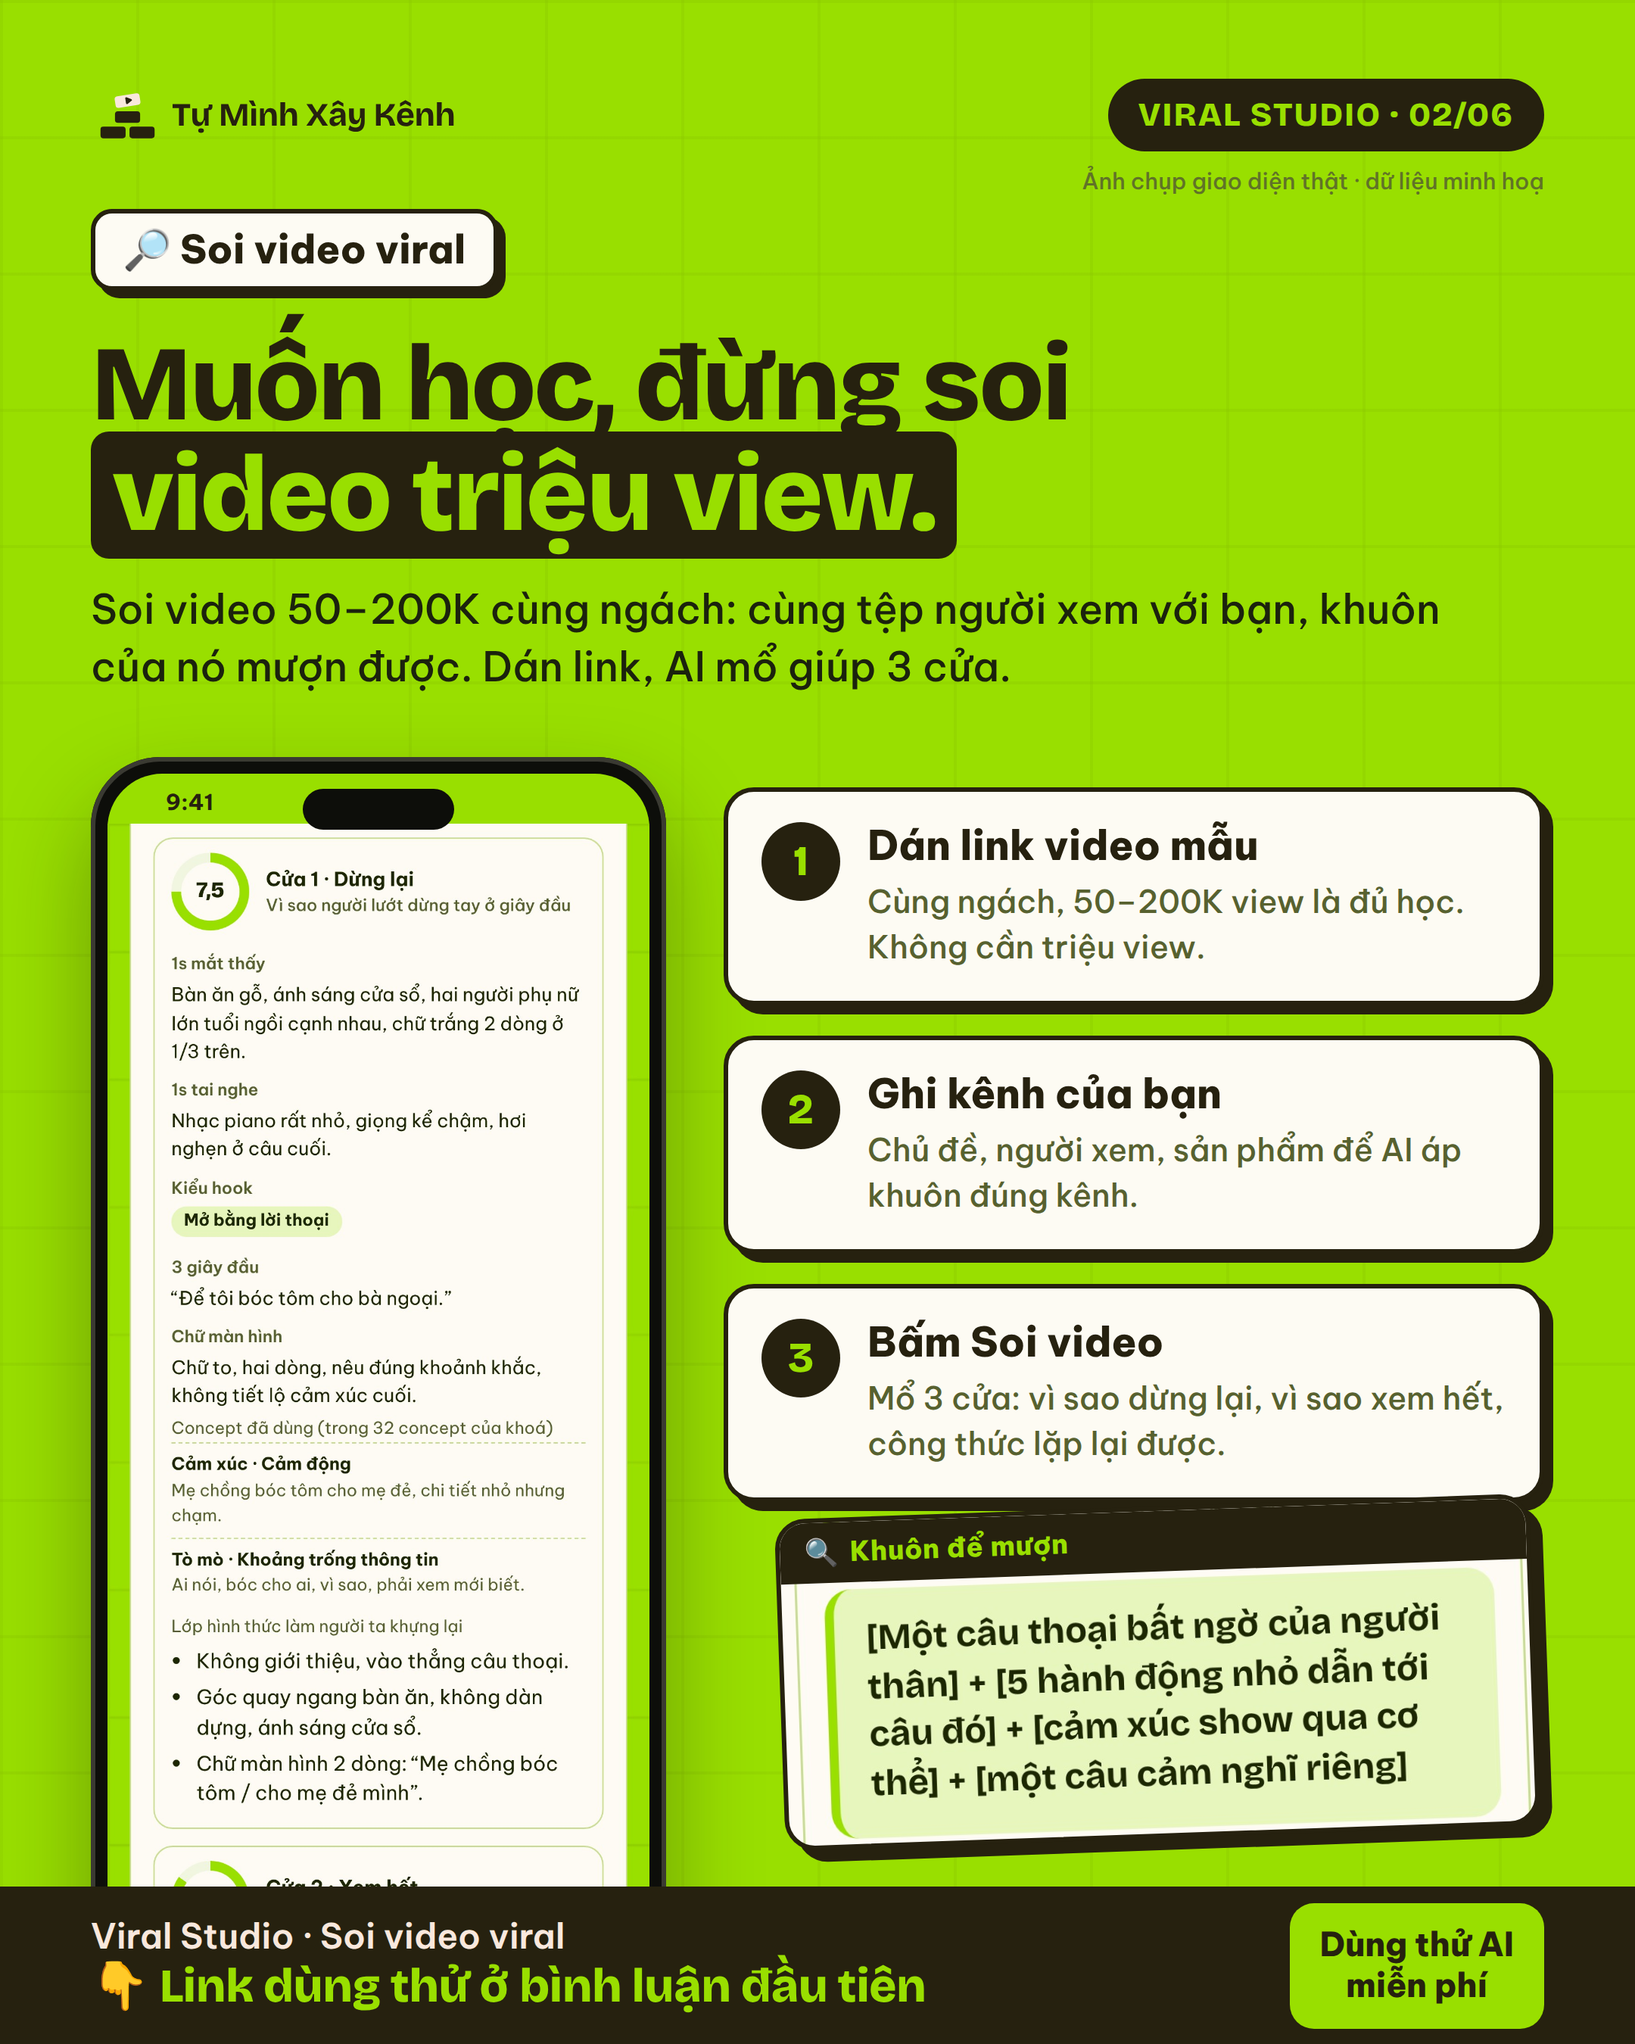
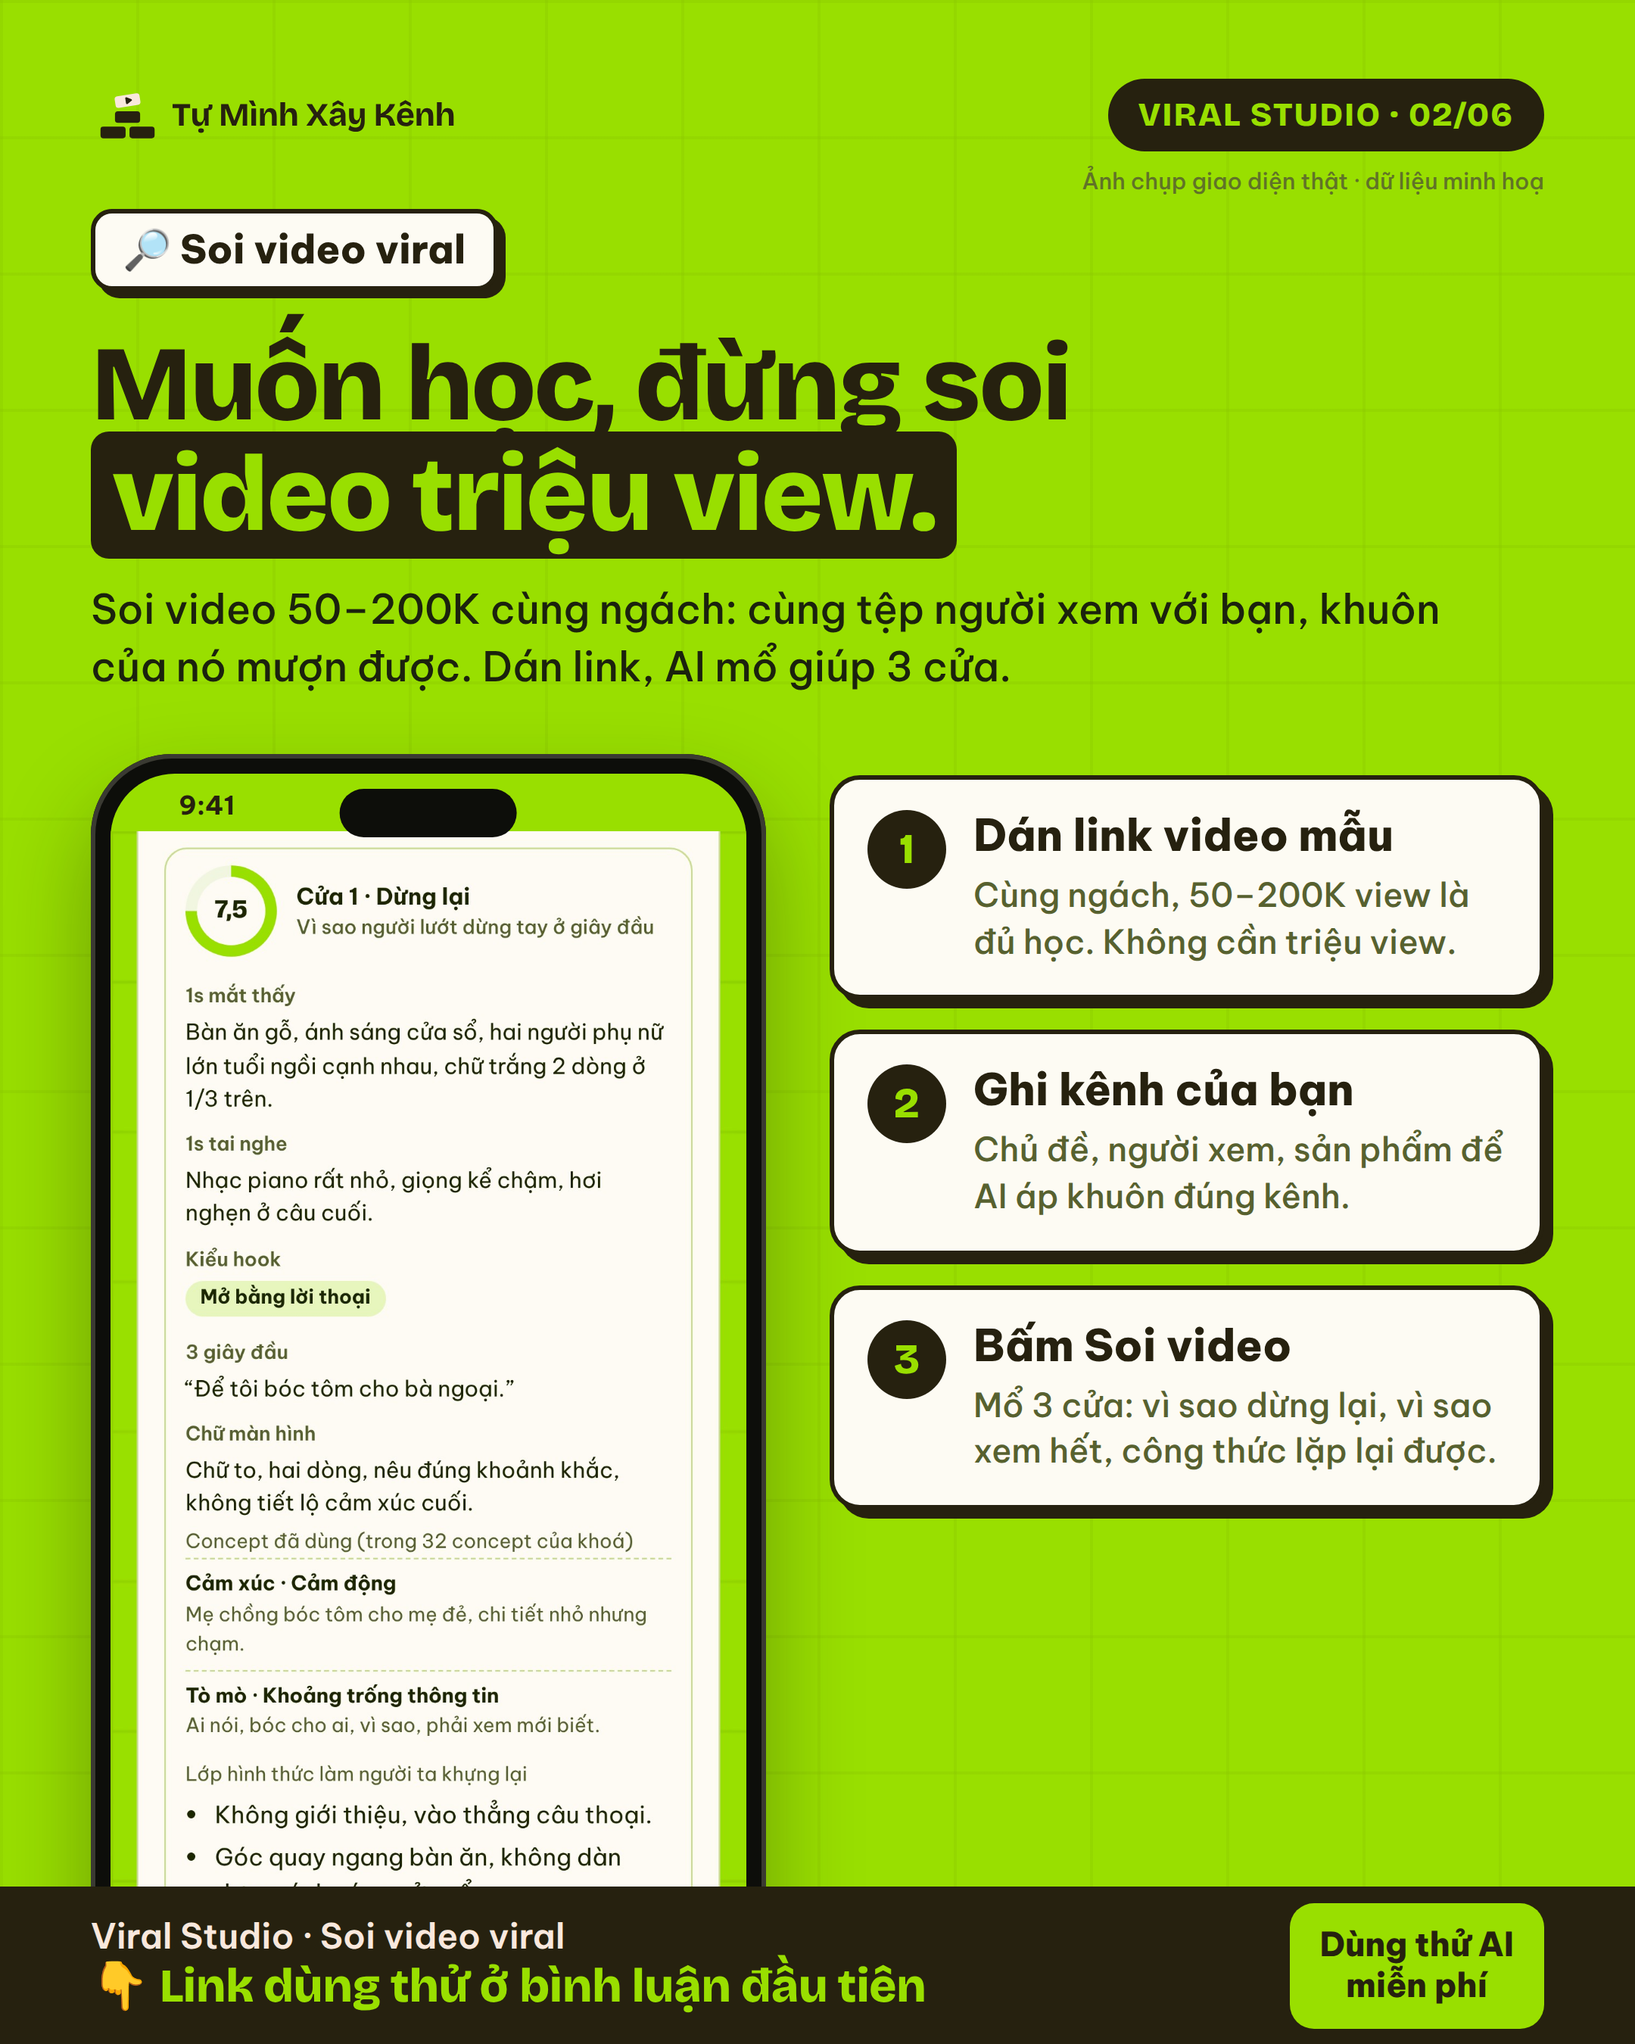
Poster Facebook: thiết kế lại bộ 7 bài, tổng quan dùng chữ to thay ảnh nhỏ, màn hình tool phóng lớn
Tổng quan bỏ 6 screenshot nhỏ khó đọc, thay bằng 6 ô số to đọc được khi lướt feed.
Poster từng tool: màn hình 380 lên 446px, bỏ mảnh phóng to gây rối, chữ các bước to hơn.

Claude-Session: https://claude.ai/code/session_01DLoQkHnYKA1ATrTvxbMQPm

Changed region(s): [[0.062, 0.3422, 0.9616, 0.9333]]

diff --git a/poster-fb/poster.html b/poster-fb/poster.html
@@ -61,8 +61,8 @@
   .buoc{position:absolute;list-style:none;display:flex;flex-direction:column;gap:20px}
   .buoc li{display:flex;gap:18px;align-items:flex-start;background:var(--surface);border:3px solid var(--ink);border-radius:20px;padding:20px 22px;box-shadow:6px 6px 0 var(--ink)}
   .buoc b{flex:none;width:52px;height:52px;border-radius:50%;background:var(--ink);color:var(--lime);display:grid;place-items:center;font:800 28px/1 var(--font-display)}
-  .buoc strong{display:block;font:800 27px/1.2 var(--font-ui)}
-  .buoc span{display:block;font:500 21px/1.42 var(--font-ui);color:var(--muted);margin-top:6px}
+  .buoc strong{display:block;font:800 29px/1.2 var(--font-ui)}
+  .buoc span{display:block;font:500 22px/1.4 var(--font-ui);color:var(--muted);margin-top:6px}
   .buoc.ngang{flex-direction:row}
   .buoc.ngang li{flex:1;flex-direction:column;gap:12px}
 
@@ -89,6 +89,16 @@
   .ghichu{position:absolute;right:60px;top:112px;font:500 15px/1 var(--font-ui);color:var(--muted);opacity:.85}
   .toi .ghichu{color:#b7b89a}
 
+  /* ── poster tổng quan: 6 ô, số to, chữ đọc được khi lướt feed ── */
+  .sau{position:absolute;left:60px;right:60px;top:500px;display:grid;grid-template-columns:repeat(2,1fr);gap:26px}
+  .sau .o6{display:flex;gap:20px;align-items:center;background:var(--surface);color:var(--ink);border:3px solid var(--ink);border-radius:22px;padding:30px 26px;box-shadow:7px 7px 0 var(--lime);position:relative}
+  .sau .o6 b{flex:none;width:72px;height:72px;border-radius:50%;background:var(--ink);color:var(--lime);display:grid;place-items:center;font:800 40px/1 var(--font-display)}
+  .sau .o6 strong{display:block;font:800 35px/1.1 var(--font-ui)}
+  .sau .o6 span{display:block;font:500 22px/1.38 var(--font-ui);color:var(--muted);margin-top:6px}
+  .sau .o6 i{position:absolute;top:-11px;right:14px;font:900 15px/1 var(--font-ui);font-style:normal;background:var(--red);color:#fff;padding:6px 10px;border-radius:999px;letter-spacing:.06em}
+  .sau .o6 i.free{background:var(--lime);color:var(--ink);border:2px solid var(--ink)}
+
+  .chot{position:absolute;left:60px;right:60px;bottom:150px;background:var(--lime);color:var(--ink);border-radius:20px;padding:24px 28px;font:800 32px/1.25 var(--font-ui);text-align:center}
   /* ── poster tổng quan ── */
   .luoi6{position:absolute;left:60px;right:60px;top:492px;display:grid;grid-template-columns:repeat(3,1fr);gap:26px}
   .o{background:var(--paper);color:var(--ink);border-radius:22px;overflow:hidden;position:relative;border:3px solid var(--lime)}
@@ -132,17 +142,17 @@
   <div class="tieude">
     <span class="nhan" style="color:var(--ink)">✦ Dùng thử miễn phí</span>
     <h1>Làm 1 video TikTok có 6 khâu.<br><mark>Mỗi khâu, 1 tool.</mark></h1>
-    <p>Xếp đúng thứ tự làm một video, lưu lại dùng dần. Mở trình duyệt là dùng, không cần cài app.</p>
+    <p>Xếp đúng thứ tự làm một video, lưu lại dùng dần. Mở trình duyệt trên điện thoại là xài, không cần cài app.</p>
   </div>
-  <div class="luoi6">
-    <div class="o"><i class="free">FREE</i><div class="anh" style="background-image:url(anh/tai-2.jpg);background-position:center 18%"></div><div class="chu"><h3>1 · Tải video</h3><p>Dán link, lấy video không logo, ảnh gốc, nhạc nền.</p></div></div>
-    <div class="o"><div class="anh" style="background-image:url(anh/soi-3.jpg)"></div><div class="chu"><h3>2 · Soi video</h3><p>Mổ vì sao video người ta nổ, áp khuôn sang kênh bạn.</p></div></div>
-    <div class="o"><div class="anh" style="background-image:url(anh/hook-3.jpg);background-position:center 9%"></div><div class="chu"><h3>3 · Chấm hook</h3><p>Chấm hook trên 100, viết lại 5 bản, đặt chữ lên video.</p></div></div>
-    <div class="o"><div class="anh" style="background-image:url(anh/kb-3.jpg)"></div><div class="chu"><h3>4 · Kịch bản</h3><p>Viết theo 11 khung, biết trước giây nào người xem lướt.</p></div></div>
-    <div class="o"><i>MỚI</i><div class="anh" style="background-image:url(anh/dung-3.jpg);background-size:190% auto;background-position:62% 22%"></div><div class="chu"><h3>5 · Dựng video</h3><p>Khỏi mua app edit: dựng, chèn chữ, xuất MP4 0đ.</p></div></div>
-    <div class="o"><i>MỚI</i><div class="anh" style="background-image:url(anh/cv-2.jpg)"></div><div class="chu"><h3>6 · Chấm video</h3><p>AI xem trọn video bạn làm, chỉ đúng giây đang hỏng.</p></div></div>
+  <div class="sau">
+    <div class="o6"><i class="free">FREE</i><b>1</b><div><strong>Tải video</strong><span>Dán link, ra video không logo, nhạc nền, ảnh bìa.</span></div></div>
+    <div class="o6"><b>2</b><div><strong>Soi video</strong><span>Coi sao video người ta nổ, mượn sườn về kênh mình.</span></div></div>
+    <div class="o6"><b>3</b><div><strong>Chấm hook</strong><span>Hook được mấy điểm trên 100, AI viết lại 5 bản.</span></div></div>
+    <div class="o6"><b>4</b><div><strong>Kịch bản</strong><span>11 khung, biết trước giây nào người xem lướt.</span></div></div>
+    <div class="o6"><i>MỚI</i><b>5</b><div><strong>Dựng video</strong><span>Khỏi mua app edit, xuất MP4 về máy. 0đ.</span></div></div>
+    <div class="o6"><i>MỚI</i><b>6</b><div><strong>Chấm video</strong><span>AI coi hết video, chỉ đúng giây đang hỏng.</span></div></div>
   </div>
-  <div class="ghichu">Ảnh chụp giao diện thật · dữ liệu minh hoạ</div>
+  <div class="chot">6 bài tiếp theo tụi mình kể kỹ từng tool 👇</div>
   <div class="chan"><div class="link">Viral Studio · 6 tool làm video viral<b>👇 Link dùng thử ở bình luận đầu tiên</b></div><div class="hv">Dùng thử miễn phí<br>không cần cài app</div></div>
 </section>
 
@@ -154,13 +164,12 @@
     <h1>Từ 1 link TikTok,<br><mark>lấy được 3 thứ.</mark></h1>
     <p>Video HD không logo, nhạc nền, ảnh bìa gốc. TikTok, Douyin, YouTube, Instagram, Facebook, X, Pinterest đều được.</p>
   </div>
-  <div class="dt" style="--w:380px;left:60px;top:500px"><div class="man"><img src="anh/tai-2.jpg" alt=""></div></div>
-  <ol class="buoc" style="left:478px;right:60px;top:520px">
+  <div class="dt" style="--w:446px;left:60px;top:498px"><div class="man"><img src="anh/tai-2.jpg" alt=""></div></div>
+  <ol class="buoc" style="left:548px;right:60px;top:512px">
     <li><b>1</b><div><strong>Copy link video</strong><span>Trong app bấm Chia sẻ → Sao chép liên kết. Dán cả đoạn chữ cũng được.</span></div></li>
     <li><b>2</b><div><strong>Bấm Lấy file</strong><span>Hiện đủ: video HD không logo, nhạc nền, ảnh bìa.</span></div></li>
     <li><b>3</b><div><strong>Tải về, hoặc soi luôn</strong><span>Bấm “Soi video này” để AI mổ vì sao video đó viral.</span></div></li>
   </ol>
-  <div class="zoom" style="--src:url(anh/tai-3.jpg);--x:30;--y:465;--cw:330;--ch:125;--k:1.5;right:66px;bottom:136px"><em>Không logo</em></div>
   <div class="ghichu">Ảnh chụp giao diện thật · dữ liệu minh hoạ</div>
   <div class="chan"><div class="link">Viral Studio · Tải video<b>👇 Link dùng thử ở bình luận đầu tiên</b></div><div class="hv">Miễn phí<br>không logo, không app</div></div>
 </section>
@@ -185,13 +194,12 @@
     <h1>Muốn học, đừng soi<br><mark>video triệu view.</mark></h1>
     <p>Soi video 50–200K cùng ngách: cùng tệp người xem với bạn, khuôn của nó mượn được. Dán link, AI mổ giúp 3 cửa.</p>
   </div>
-  <div class="dt" style="--w:380px;left:60px;top:500px"><div class="man"><img src="anh/soi-3.jpg" alt=""></div></div>
-  <ol class="buoc" style="left:478px;right:60px;top:520px">
+  <div class="dt" style="--w:446px;left:60px;top:498px"><div class="man"><img src="anh/soi-3.jpg" alt=""></div></div>
+  <ol class="buoc" style="left:548px;right:60px;top:512px">
     <li><b>1</b><div><strong>Dán link video mẫu</strong><span>Cùng ngách, 50–200K view là đủ học. Không cần triệu view.</span></div></li>
     <li><b>2</b><div><strong>Ghi kênh của bạn</strong><span>Chủ đề, người xem, sản phẩm để AI áp khuôn đúng kênh.</span></div></li>
     <li><b>3</b><div><strong>Bấm Soi video</strong><span>Mổ 3 cửa: vì sao dừng lại, vì sao xem hết, công thức lặp lại được.</span></div></li>
   </ol>
-  <div class="zoom" style="--src:url(anh/soi-cua3.jpg);--x:0;--y:90;--cw:390;--ch:140;--k:1.28;right:66px;bottom:136px"><em>Khuôn để mượn</em></div>
   <div class="ghichu">Ảnh chụp giao diện thật · dữ liệu minh hoạ</div>
   <div class="chan"><div class="link">Viral Studio · Soi video viral<b>👇 Link dùng thử ở bình luận đầu tiên</b></div><div class="hv">Dùng thử AI<br>miễn phí</div></div>
 </section>
@@ -215,13 +223,12 @@
     <h1>4 lỗi hook khiến video<br><mark>bị lướt trước giây thứ 3.</mark></h1>
     <p>Mở bằng “chào mọi người”, chữ nhỏ, con số nằm cuối câu, không nói rõ cho ai. Dán hook vào, AI chấm trên 100.</p>
   </div>
-  <div class="dt" style="--w:380px;left:60px;top:500px"><div class="man"><img src="anh/hook-3.jpg" alt=""></div></div>
-  <ol class="buoc" style="left:478px;right:60px;top:520px">
+  <div class="dt" style="--w:446px;left:60px;top:498px"><div class="man"><img src="anh/hook-3.jpg" alt=""></div></div>
+  <ol class="buoc" style="left:548px;right:60px;top:512px">
     <li><b>1</b><div><strong>Đưa frame và câu hook</strong><span>Chụp khung đầu video, gõ câu hook bạn định dùng.</span></div></li>
     <li><b>2</b><div><strong>Bấm Phân tích</strong><span>Chấm 4 tiêu chí: tò mò, dễ hiểu, độ dài, từ khoá. Viết lại 5 bản.</span></div></li>
     <li><b>3</b><div><strong>Xuất PNG chữ</strong><span>Chọn bố cục, font. Tải PNG nền trong suốt, kéo vào CapCut.</span></div></li>
   </ol>
-  <div class="zoom" style="--src:url(anh/hook-2.jpg);--x:20;--y:665;--cw:355;--ch:148;--k:1.4;right:66px;bottom:136px"><em>Kéo vào CapCut</em></div>
   <div class="ghichu">Ảnh chụp giao diện thật · dữ liệu minh hoạ</div>
   <div class="chan"><div class="link">Viral Studio · Hook viral<b>👇 Link dùng thử ở bình luận đầu tiên</b></div><div class="hv">Dùng thử AI<br>miễn phí</div></div>
 </section>
@@ -245,13 +252,12 @@
     <h1>11 khung kịch bản.<br><mark>Chuyện nào khung nấy.</mark></h1>
     <p>Chọn đúng khung cho đúng chuyện. Viết xong, AI chấm 5 tiêu chí và chỉ đúng giây nào người xem sẽ lướt.</p>
   </div>
-  <div class="dt" style="--w:380px;left:60px;top:500px"><div class="man"><img src="anh/kb-3.jpg" alt=""></div></div>
-  <ol class="buoc" style="left:478px;right:60px;top:520px">
+  <div class="dt" style="--w:446px;left:60px;top:498px"><div class="man"><img src="anh/kb-3.jpg" alt=""></div></div>
+  <ol class="buoc" style="left:548px;right:60px;top:512px">
     <li><b>1</b><div><strong>Chọn khung</strong><span>Một khoảnh khắc, Kể chuyện 4 nhịp, Chia sẻ kinh nghiệm…</span></div></li>
     <li><b>2</b><div><strong>Viết từng phần</strong><span>Tool đếm chữ, đổi ra giây, báo phần nào đang thiếu hay thừa.</span></div></li>
     <li><b>3</b><div><strong>Bấm Chấm</strong><span>Điểm 5 tiêu chí, chỗ người xem lướt, 3 chỗ cần sửa.</span></div></li>
   </ol>
-  <div class="zoom" style="--src:url(anh/kb-2.jpg);--x:15;--y:460;--cw:362;--ch:140;--k:1.38;right:66px;bottom:136px"><em>Canh từng giây</em></div>
   <div class="ghichu">Ảnh chụp giao diện thật · dữ liệu minh hoạ</div>
   <div class="chan"><div class="link">Viral Studio · Kịch bản viral<b>👇 Link dùng thử ở bình luận đầu tiên</b></div><div class="hv">Dùng thử AI<br>miễn phí</div></div>
 </section>
@@ -305,13 +311,12 @@
     <h1>Lọt QR code: 3.600 view.<br><mark>Bỏ QR: 84.500 view.</mark></h1>
     <p>Lỗi nhỏ vậy thôi mà tự xem lại khó thấy. AI xem trọn video, chỉ đúng giây nào đang hỏng và sửa sao với footage đang có.</p>
   </div>
-  <div class="dt" style="--w:380px;left:60px;top:500px"><div class="man"><img src="anh/cv-2.jpg" alt=""></div></div>
-  <ol class="buoc" style="left:478px;right:60px;top:520px">
+  <div class="dt" style="--w:446px;left:60px;top:498px"><div class="man"><img src="anh/cv-2.jpg" alt=""></div></div>
+  <ol class="buoc" style="left:548px;right:60px;top:512px">
     <li><b>1</b><div><strong>Dán link hoặc tải video</strong><span>Video đã đăng hay bản dựng chưa đăng đều được.</span></div></li>
     <li><b>2</b><div><strong>Bấm Chấm video</strong><span>Điểm trên 100, 7 thang, chỗ cần lưu ý theo từng giây.</span></div></li>
     <li><b>3</b><div><strong>Sửa ngay, làm tiếp</strong><span>Việc sửa trên bản dựng này, việc làm khác lần sau, 3 kịch bản tiếp theo.</span></div></li>
   </ol>
-  <div class="zoom" style="--src:url(anh/cv-3.jpg);--x:15;--y:122;--cw:362;--ch:128;--k:1.32;right:66px;bottom:136px"><em>Lỗi theo từng giây</em></div>
   <div class="ghichu">Ảnh chụp giao diện thật · dữ liệu minh hoạ</div>
   <div class="chan"><div class="link">Viral Studio · Chấm video của bạn<b>👇 Link dùng thử ở bình luận đầu tiên</b></div><div class="hv">Dùng thử AI<br>miễn phí</div></div>
 </section>
